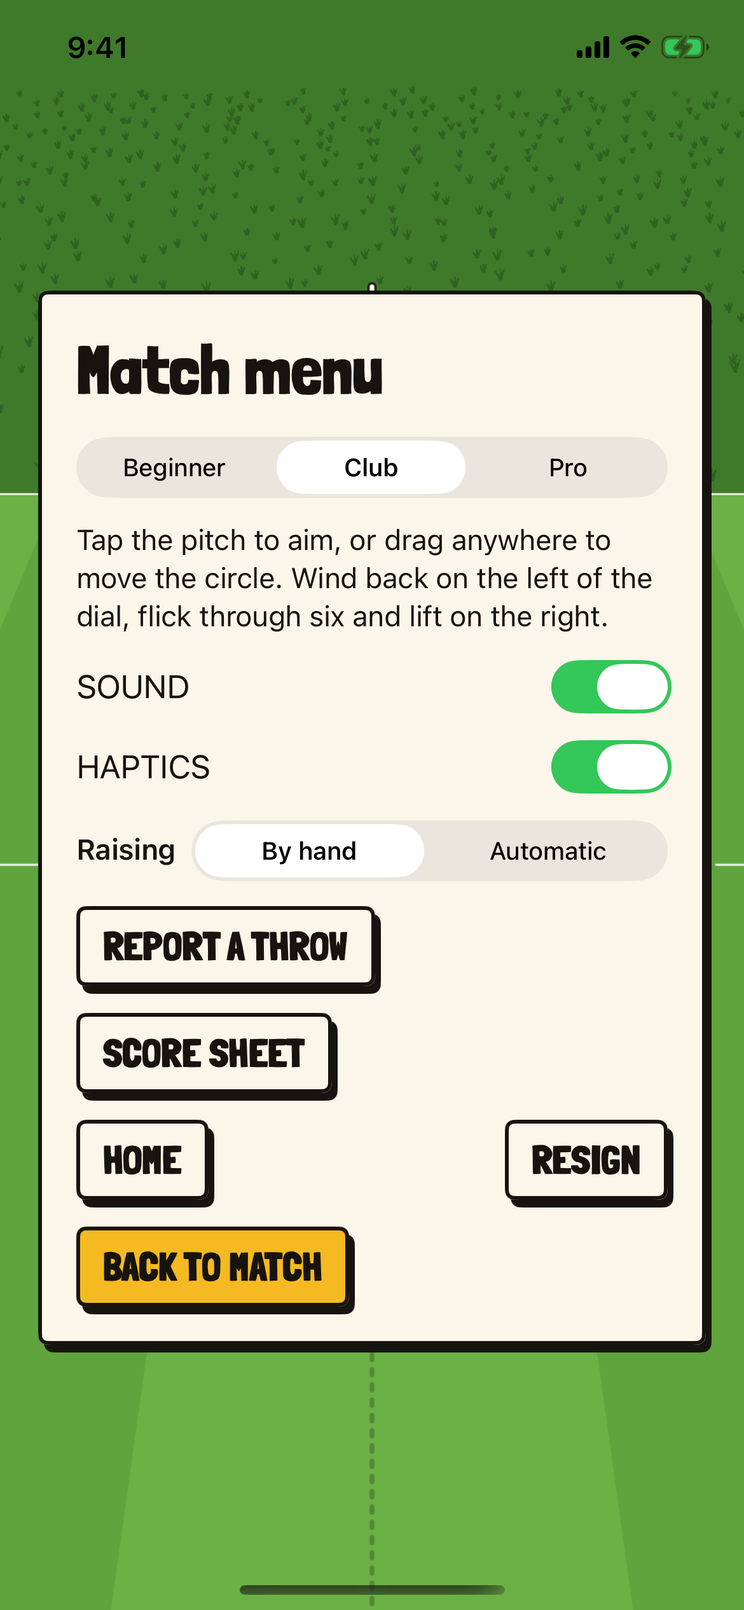
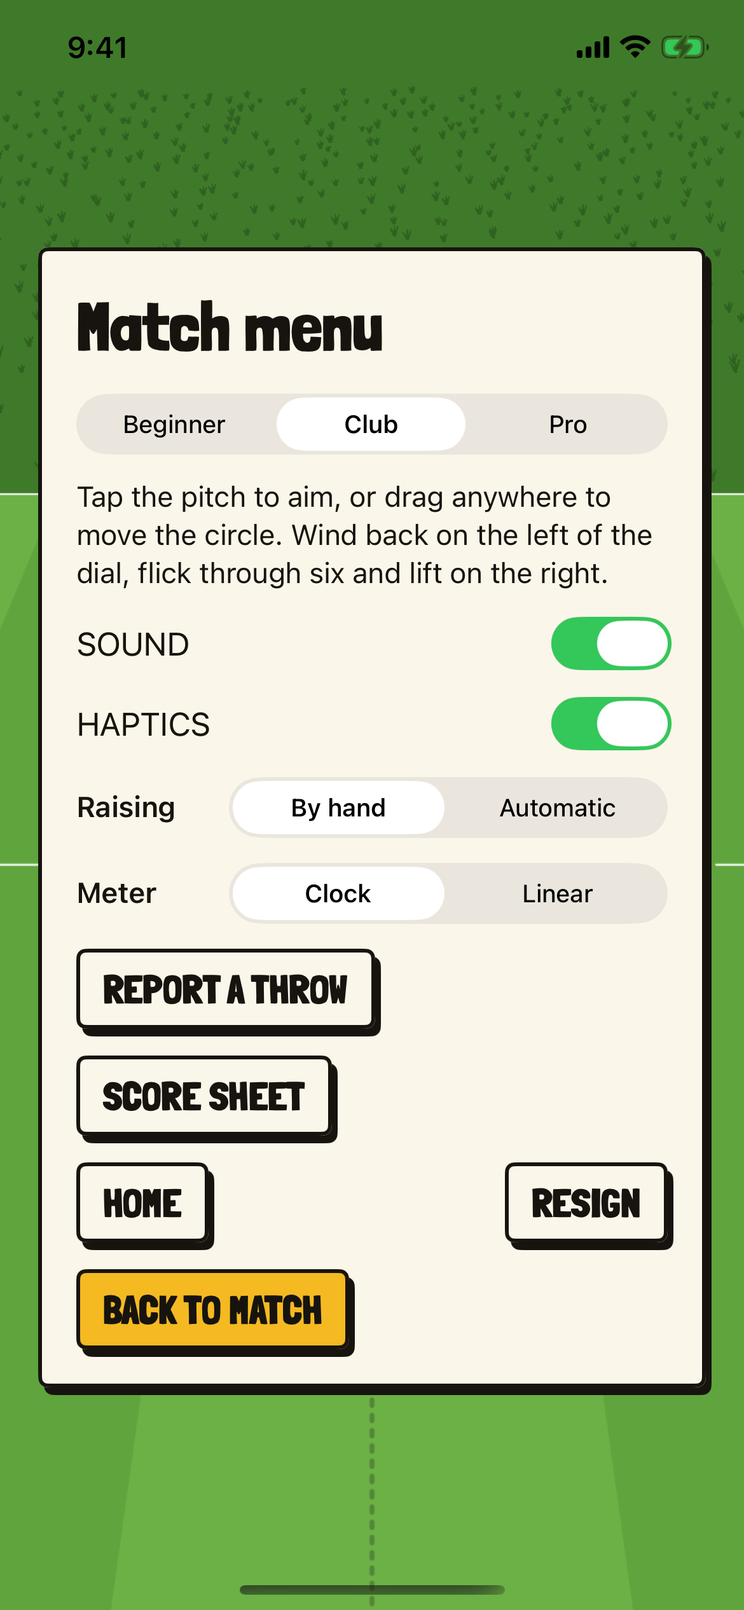
Fit the linear meter and the nudge beside the plan sliders
With the linear meter on the left, the plan's columns swap so the
short TILT/SPIN column sits beside the meter and the DRAW BACK tab
stays clear. In a match the clock's nudge fingertip presses the knob,
since the sliders cover the band beside the ring. The nudge waits
while the side view is open or a slider is held. The menu's Meter and
Side rows get labels like Raising. The solo review tool adds linear
and nudge match pictures for both sides.

Changed region(s): [[0.0308, 0.156, 0.9538, 0.8736], [0.6769, 0.6864, 0.9231, 0.78]]

diff --git a/ThrowingWood/MatchCards.swift b/ThrowingWood/MatchCards.swift
@@ -397,7 +397,7 @@ struct RaisingSetting: View {
   @Bindable var model: GameModel
   var body: some View {
     HStack {
-      Text("Raising").font(.subheadline.weight(.semibold))
+      Text("Raising").font(.subheadline.weight(.semibold)).frame(width: 72, alignment: .leading)
       Picker("Raising", selection: $model.raiseAutomatically) {
         Text("By hand").tag(false)
         Text("Automatic").tag(true)
@@ -407,30 +407,42 @@ struct RaisingSetting: View {
 }
 
 /// ARC over SIDE VIEW on the left of the dial, TILT or SPIN over WALK on the
-/// right, their feet level.
+/// right, their feet level. With the linear meter on the left the two swap, so
+/// the shorter TILT column sits beside the meter, under its prompt tab.
 struct PlanControls: View {
   let model: GameModel, pitch: PitchSession, revision: Int
+  @Environment(\.meterRoom) private var meterRoom
   var body: some View {
-    let enabled = pitch.canAim
+    let mirrored = meterRoom.width > 0 && meterRoom.edge == .leading
     HStack(alignment: .bottom) {
-      VStack(spacing: 12) {
-        ArcSlider(
-          release: pitch.release, loft: pitch.arcDegrees,
-          held: pitch.held == .arc ? pitch.heldFraction : nil, enabled: enabled,
-          slide: { f, phase in model.perform { pitch.slide(.arc, to: f, phase: phase) } },
-          step: { s in model.perform { try pitch.stepPlan(.arc, by: s) } })
-        tool("SIDE VIEW", label: "Side view", on: pitch.plan) { try pitch.togglePlan() }
-      }
+      if mirrored { side } else { arc }
       Spacer()
-      VStack(spacing: 12) {
-        SideSlider(
-          value: pitch.sideStep ?? 0, kubb: pitch.throwsKubb,
-          held: pitch.held == .side ? pitch.heldFraction : nil, enabled: enabled,
-          slide: { f, phase in model.perform { pitch.slide(.side, to: f, phase: phase) } },
-          step: { s in model.perform { try pitch.stepPlan(.side, by: s) } })
-        tool("WALK", label: "Walk by dragging on the pitch", on: pitch.walking) {
-          try pitch.toggleWalk()
-        }
+      if mirrored { arc } else { side }
+    }
+  }
+
+  private var arc: some View {
+    let enabled = pitch.canAim
+    return VStack(spacing: 12) {
+      ArcSlider(
+        release: pitch.release, loft: pitch.arcDegrees,
+        held: pitch.held == .arc ? pitch.heldFraction : nil, enabled: enabled,
+        slide: { f, phase in model.perform { pitch.slide(.arc, to: f, phase: phase) } },
+        step: { s in model.perform { try pitch.stepPlan(.arc, by: s) } })
+      tool("SIDE VIEW", label: "Side view", on: pitch.plan) { try pitch.togglePlan() }
+    }
+  }
+
+  private var side: some View {
+    let enabled = pitch.canAim
+    return VStack(spacing: 12) {
+      SideSlider(
+        value: pitch.sideStep ?? 0, kubb: pitch.throwsKubb,
+        held: pitch.held == .side ? pitch.heldFraction : nil, enabled: enabled,
+        slide: { f, phase in model.perform { pitch.slide(.side, to: f, phase: phase) } },
+        step: { s in model.perform { try pitch.stepPlan(.side, by: s) } })
+      tool("WALK", label: "Walk by dragging on the pitch", on: pitch.walking) {
+        try pitch.toggleWalk()
       }
     }
   }

diff --git a/ThrowingWood/BoardView.swift b/ThrowingWood/BoardView.swift
@@ -143,6 +143,8 @@ import UIKit
               for _ in 0..<90 { try pitch.tick(1.0 / 60) }
             }
             if mode == "computer" { for _ in 0..<32 { try pitch.tick(1.0 / 60) } }
+            // the nudge frozen a second in, the draw back, beside the plan's sliders
+            if mode == "nudge" { reviewNudge = 1.0 }
             if mode == "arc" || mode == "tilt" {
               // A finger held on the slider three quarters along: the side view eases in.
               pitch.slide(mode == "arc" ? .arc : .side, to: 0.75, phase: .down)
@@ -221,7 +223,7 @@ import UIKit
     (model.screen == .practice || model.screen == .match) && pitch.canAim && pitch.handoff == nil
   }
   private var nudgeEligible: Bool {
-    nudgeAimWanted && !pitch.plan && tracking == nil && pendingDial == nil && nudgeEnd == nil
+    nudgeAimWanted && !pitch.showsSide && tracking == nil && pendingDial == nil && nudgeEnd == nil
       && pitch.dial.phase == "idle"
   }
   /// Time passing for the nudge, on the wall clock (the display link sleeps).
@@ -229,6 +231,8 @@ import UIKit
     let now = CACurrentMediaTime()
     let dt = nudgeClock.map { now - $0 } ?? 0
     nudgeClock = now
+    // a held slider (SIDE VIEW) is input, and keeps the nudge off the meter
+    if pitch.held != nil { nudge.input() }
     let aim = nudgeAimWanted
     if aim && !nudgeAim { nudge.aimBegan() }
     nudgeAim = aim
@@ -264,7 +268,7 @@ import UIKit
           switch mode {
           case "home": model.screen == .home
           case "options": model.screen == .options
-          case "aim": model.screen == .match && pitch.canAim
+          case "aim", "nudge": model.screen == .match && pitch.canAim
           case "menu": model.screen == .menu
           case "verdict": pitch.result != nil
           case "plan": pitch.plan
@@ -340,7 +344,7 @@ import UIKit
       if let ghost {
         hud.nudge(
           ghost, swing: NudgeSwing(pitch.dial), on: meter, safeLeft: safeAreaInsets.left,
-          safeRight: safeAreaInsets.right)
+          safeRight: safeAreaInsets.right, besideFree: model.screen == .practice)
       }
     }
   }

diff --git a/ThrowingWood/NudgeHUD.swift b/ThrowingWood/NudgeHUD.swift
@@ -15,17 +15,20 @@ enum NudgePaint {
   static let shadow: CGFloat = 0.22  // its hard shadow when down, of its radius
   static let zoneGap: CGFloat = 12  // pt between the prompt tab and the fingertip's path
   static let beside: CGFloat = 1.6  // the clock's fingertip: radii out, beside the ring
+  static let onKnob: CGFloat = 0.82  // the clock's fingertip on the knob, where the sliders cover the band
 }
 
 extension PracticeHUD {
   /// Where the fingertip is for `arm` on this meter.
+  /// `besideFree`: nothing covers the band beside the clock's ring. In a match
+  /// the plan's sliders sit there, so the fingertip presses the knob instead.
   static func nudgeFinger(
     _ meter: MeterLayout, arm: Double, swing: NudgeSwing, size: CGSize, safeLeft: CGFloat,
-    safeRight: CGFloat
+    safeRight: CGFloat, besideFree: Bool = true
   ) -> CGPoint {
     switch meter {
     case .clock(let c):
-      return c.point(arm: arm, radius: c.radius * NudgePaint.beside)
+      return c.point(arm: arm, radius: c.radius * (besideFree ? NudgePaint.beside : NudgePaint.onKnob))
     case .linear(let g):
       let z = nudgePath(g, swing: swing, size: size, safeLeft: safeLeft, safeRight: safeRight)
       return CGPoint(x: z.x, y: z.y0 + (g.y(arm: clampArm(arm)) - g.yHome))
@@ -61,7 +64,8 @@ extension PracticeHUD {
   }
 
   func nudge(
-    _ f: NudgeFrame, swing: NudgeSwing, on meter: MeterLayout, safeLeft: CGFloat, safeRight: CGFloat
+    _ f: NudgeFrame, swing: NudgeSwing, on meter: MeterLayout, safeLeft: CGFloat, safeRight: CGFloat,
+    besideFree: Bool = true
   ) {
     guard f.alpha > 0 else { return }
     context.saveGState()
@@ -72,7 +76,8 @@ extension PracticeHUD {
     context.setLineCap(.round)
     context.setLineJoin(.round)
     let finger = Self.nudgeFinger(
-      meter, arm: f.arm, swing: swing, size: size, safeLeft: safeLeft, safeRight: safeRight)
+      meter, arm: f.arm, swing: swing, size: size, safeLeft: safeLeft, safeRight: safeRight,
+      besideFree: besideFree)
     switch meter {
     case .clock(let c):
       let r = c.radius

diff --git a/ThrowingWood/MeterSettings.swift b/ThrowingWood/MeterSettings.swift
@@ -32,17 +32,24 @@ struct MeterSettings: View {
   var card = false
   var body: some View {
     if card {
+      // labelled as the menu's Raising is, the labels one width so the pickers line up
       VStack(alignment: .leading, spacing: 6) {
-        Picker("Meter", selection: $meter.kind) {
-          Text("Clock").tag(MeterKind.clock)
-          Text("Linear").tag(MeterKind.linear)
-        }.pickerStyle(.segmented).accessibilityLabel("Meter")
+        HStack {
+          Text("Meter").font(.subheadline.weight(.semibold)).frame(width: 72, alignment: .leading)
+          Picker("Meter", selection: $meter.kind) {
+            Text("Clock").tag(MeterKind.clock)
+            Text("Linear").tag(MeterKind.linear)
+          }.pickerStyle(.segmented).accessibilityLabel("Meter")
+        }
         if meter.kind == .linear {
           // Jamie, 2026-11-19: "Left and right handed folks may want it on one side or the other"
-          Picker("Side", selection: $meter.side) {
-            Text("Left").tag(MeterSide.left)
-            Text("Right").tag(MeterSide.right)
-          }.pickerStyle(.segmented).accessibilityLabel("Side")
+          HStack {
+            Text("Side").font(.subheadline.weight(.semibold)).frame(width: 72, alignment: .leading)
+            Picker("Side", selection: $meter.side) {
+              Text("Left").tag(MeterSide.left)
+              Text("Right").tag(MeterSide.right)
+            }.pickerStyle(.segmented).accessibilityLabel("Side")
+          }
         }
       }
     } else {

diff --git a/tools/solo-snapshots.py b/tools/solo-snapshots.py
@@ -15,6 +15,21 @@ MODES = {
     "raiseauto": "raise-many", "raiserest": "raise-many", "punish": "punish", "computer": "computer",
     "winner": "over", "sheet": "over",
 }
+# The match with the linear meter (and the nudge) beside the plan's sliders:
+# name: (MATCH_REVIEW mode, fixture, meter, side). The meter is a launch
+# argument, never saved; every other shot runs with the clock.
+METER_SHOTS = {
+    "linear-right-aim": ("aim", "aim", "linear", "right"),
+    "linear-right-arc": ("arc", "aim", "linear", "right"),
+    "linear-right-tilt": ("tilt", "aim", "linear", "right"),
+    "linear-left-aim": ("aim", "aim", "linear", "left"),
+    "linear-left-arc": ("arc", "aim", "linear", "left"),
+    "linear-left-tilt": ("tilt", "aim", "linear", "left"),
+    "linear-right-nudge": ("nudge", "aim", "linear", "right"),
+    "linear-left-nudge": ("nudge", "aim", "linear", "left"),
+    "clock-nudge": ("nudge", "aim", "clock", "right"),
+}
+SHOTS = {**{m: (m, f, "clock", "right") for m, f in MODES.items()}, **METER_SHOTS}
 APP = "com.throwingwood.app"
 
 
@@ -38,13 +53,14 @@ def capture(phone, args):
         tmp = Path(sim("get_app_container", udid, APP, "data", capture_output=True,
                        text=True).stdout.strip()) / "tmp"
         prefix = phone.lower().replace(" ", "-")
-        for mode, fixture in MODES.items():
+        for shot, (mode, fixture, meter, side) in SHOTS.items():
             ready = tmp / "review-ready"
             ready.unlink(missing_ok=True)
             if fixture:
                 src = ROOT / "ThrowingWoodKit/Tests/KubbRendererTests/Fixtures/solo" / (fixture + ".json")
                 shutil.copyfile(src, tmp / "review-solo.json")
             sim("launch", "--terminate-running-process", udid, APP,
+                "-pitch.meter", meter, "-pitch.meterSide", side,
                 env={**os.environ, "SIMCTL_CHILD_MATCH_REVIEW": mode}, stdout=subprocess.DEVNULL)
             deadline = time.monotonic() + 30
             while not ready.exists() or ready.read_text() != mode:
@@ -52,9 +68,9 @@ def capture(phone, args):
                     raise RuntimeError(f"{phone} did not reach {mode}")
                 time.sleep(0.1)
             time.sleep(0.7)  # allow the launch transition and SwiftUI transaction to finish
-            file = args.out / f"{prefix}-{mode}.png"
+            file = args.out / f"{prefix}-{shot}.png"
             sim("io", udid, "screenshot", str(file), capture_output=True)
-            print(f"{phone} {mode}", flush=True)
+            print(f"{phone} {shot}", flush=True)
     finally:
         sim("status_bar", udid, "clear")
         subprocess.run(["xcrun", "simctl", "terminate", udid, APP], capture_output=True)
@@ -75,4 +91,4 @@ if __name__ == "__main__":
     if not args.capture_only:
         subprocess.run(["swift", str(ROOT / "tools/check-snapshots.swift"), str(ROOT / "docs/review"),
                         str(args.out), *[f"{p.lower().replace(' ', '-')}-{m}.png"
-                                       for p in phones for m in MODES]], check=True)
+                                       for p in phones for m in SHOTS]], check=True)

diff --git a/docs/RENDER.md b/docs/RENDER.md
@@ -31,6 +31,15 @@ Each image is a real iOS 26.2 simulator capture of the app with a synthetic matc
 | Side view | [16e](review/iphone-16e-plan.png) | [17 Pro Max](review/iphone-17-pro-max-plan.png) |
 | ARC held | [16e](review/iphone-16e-arc.png) | [17 Pro Max](review/iphone-17-pro-max-arc.png) |
 | TILT held | [16e](review/iphone-16e-tilt.png) | [17 Pro Max](review/iphone-17-pro-max-tilt.png) |
+| Linear, right, aim | [16e](review/iphone-16e-linear-right-aim.png) | [17 Pro Max](review/iphone-17-pro-max-linear-right-aim.png) |
+| Linear, right, ARC held | [16e](review/iphone-16e-linear-right-arc.png) | [17 Pro Max](review/iphone-17-pro-max-linear-right-arc.png) |
+| Linear, right, TILT held | [16e](review/iphone-16e-linear-right-tilt.png) | [17 Pro Max](review/iphone-17-pro-max-linear-right-tilt.png) |
+| Linear, left, aim | [16e](review/iphone-16e-linear-left-aim.png) | [17 Pro Max](review/iphone-17-pro-max-linear-left-aim.png) |
+| Linear, left, ARC held | [16e](review/iphone-16e-linear-left-arc.png) | [17 Pro Max](review/iphone-17-pro-max-linear-left-arc.png) |
+| Linear, left, TILT held | [16e](review/iphone-16e-linear-left-tilt.png) | [17 Pro Max](review/iphone-17-pro-max-linear-left-tilt.png) |
+| Nudge, clock, in a match | [16e](review/iphone-16e-clock-nudge.png) | [17 Pro Max](review/iphone-17-pro-max-clock-nudge.png) |
+| Nudge, linear right, in a match | [16e](review/iphone-16e-linear-right-nudge.png) | [17 Pro Max](review/iphone-17-pro-max-linear-right-nudge.png) |
+| Nudge, linear left, in a match | [16e](review/iphone-16e-linear-left-nudge.png) | [17 Pro Max](review/iphone-17-pro-max-linear-left-nudge.png) |
 | Flight | [16e](review/iphone-16e-flight.png) | [17 Pro Max](review/iphone-17-pro-max-flight.png) |
 | Verdict | [16e](review/iphone-16e-verdict.png) | [17 Pro Max](review/iphone-17-pro-max-verdict.png) |
 | Raise | [16e](review/iphone-16e-raise.png) | [17 Pro Max](review/iphone-17-pro-max-raise.png) |
@@ -54,7 +63,7 @@ Each image is a real iOS 26.2 simulator capture of the app with a synthetic matc
 The throw's meter is the player's choice, kept on the device: MENU (practice) or the match menus, Meter, Clock or Linear (`pitch.meter`, clock by default), and Side, Left or Right (`pitch.meterSide`, right by default) for the linear meter. `KubbRenderer/ThrowMeter.swift` holds the geometry and which touches each meter claims, and both feed the same `PointerDial`: the clock its finger's angle about the centre, the linear meter `meterPoint(arm:)` for the knob's height. The engine and its `pointer` tune do not know which meter is on the screen.
 
 - **The clock** keeps its place and size: radius `min(0.22 W, 0.12 H, 114)` pt, centre 42 pt above the bottom safe area. Its colours are the app's own (system red and grey), not the web's palette.
-- **The linear meter** (`LinearMeterHUD.swift`) is a port of the web's `src/render/linear.js`, its tune number for number: two columns in one ink frame with a hard shadow, the lane (targets) toward the screen's centre and the channel (the wood knob) toward the edge, the prompt a tab at the knob's home. The knob's home is the clock's 6, the middle of the track; the backswing runs down, toward the player, and the forward swing up, on one scale. The box is 0.2 of the width (64 to 96 pt) and 0.47 of the height, the web's, about 330 pt of track on a tall phone, and stands 7 pt off the edge and the bottom safe area, under the minimap. A screen that cannot give it 320 pt of track (a phone on its side, a short phone) shows the clock. Its words: DRAW BACK, FLING!, BACK TO MIDDLE. The plan's buttons are padded clear of it through the `\.meterRoom` environment value (`MeterRoom`: the edge and the width the meter takes).
+- **The linear meter** (`LinearMeterHUD.swift`) is a port of the web's `src/render/linear.js`, its tune number for number: two columns in one ink frame with a hard shadow, the lane (targets) toward the screen's centre and the channel (the wood knob) toward the edge, the prompt a tab at the knob's home. The knob's home is the clock's 6, the middle of the track; the backswing runs down, toward the player, and the forward swing up, on one scale. The box is 0.2 of the width (64 to 96 pt) and 0.47 of the height, the web's, about 330 pt of track on a tall phone, and stands 7 pt off the edge and the bottom safe area, under the minimap. A screen that cannot give it 320 pt of track (a phone on its side, a short phone) shows the clock. Its words: DRAW BACK, FLING!, BACK TO MIDDLE. The plan's sliders and buttons are padded clear of it through the `\.meterRoom` environment value (`MeterRoom`: the edge and the width the meter takes). With the meter on the left the plan's two columns swap, TILT or SPIN over WALK beside the meter and ARC over SIDE VIEW at the far edge, so the shorter column sits under the prompt tab and the tall ARC never covers it. The sliders are SwiftUI views over the board, so a press on one never reaches `BoardView` (never a throw), and a press on the meter never reaches a slider.
 - **Red** starts at `max(overDeg, powerHi)` on both meters: the engine's overpower cost counts from the power target's top (core/throwplan), so a long throw's target past 11 o'clock is never drawn as overpowered.
 - **The last throw** (the engine's `lastBack` and `lastStop`) is a faded ghost of the knob where it was, 60% of its size at 45% opacity, so it reads as "where your last throw went" and never as a target. The web draws the same.
 
@@ -64,15 +73,15 @@ In `BoardView.touchesBegan`, in this order. Anything a step does not claim falls
 
 1. Raise and punishment phases, as before.
 2. `MeterLayout.first`: the clock's ring, within 1.25 radii of its centre (the throw at once, as always); the linear knob, 46 pt up or down from home, across the body and 6 pt either side of it (the throw at once, grabbed relatively: the press point is home); the rest of the linear body and its shadow (swallowed, never a throw).
-3. Walking, the target circle (56 pt), the thrower (44 pt), as before.
+3. Walking, the thrower (44 pt), as before.
 4. `MeterLayout.after`: beside the clock's ring, 1.25 to 2.1 radii; the linear meter's throw zone, y ≥ 0.6 of the height. Beside the ring where a tap could not aim (`tapCouldAim`, the tap rule `target(tap: true)` uses), the press is the throw at once. Otherwise the press waits: one that moves more than 10 pt (`MeterLayout.tapSlop`) is the throw, a stroke from the knob's home for the zone, and one that does not is a tap on the pitch.
-5. A tap on the pitch, as before.
+5. The aim (`AimDrag`): a tap puts the circle there, a drag anywhere else moves it from where it is. A tap that waited in step 4 aims the same way (`tapAim`).
 
 A stroke from the zone or beside the ring feeds the engine the press on one frame and the finger on the next, so a quick first move still arms the swing. A finger beside the ring is drawn as a spoke from the knob to it.
 
 ### The nudge
 
-When a player is stuck on their own throw, a ghost of the knob makes one good throw on the meter with a ghost fingertip where the finger goes: a slow draw back (0.9 s), a beat, a fast flick (0.25 s), then a second's rest, until the next press. `ThrowNudge.swift` (pure, the web's `src/game/nudge.js` numbers) says when and where on the timeline; `NudgeHUD.swift` draws it. It counts only eligible time (the player's own aim in practice or a match, no finger down, the plan closed, the dial idle) on the wall clock, and the display link sleeps until it is due. A device with fewer than 3 throws (`pitch.throwsMade`, capped at 9) is nudged after 8 s in the aim without a press on the meter; any device after two presses on the meter in a row that made no throw (0.8 s after the last); a learned one after 30 s with no input. A tap in the throw zone or beside the ring keeps it away 1.5 s. The fingertip is beside the ring (1.6 radii) on the clock and in the throw zone on the linear meter's inner side. While the engine says WIND BACK the plate follows the ghost. Reduce Motion shows a still picture at the back with the strokes' arrows. Drawing only: the ghost is never fed to the engine.
+When a player is stuck on their own throw, a ghost of the knob makes one good throw on the meter with a ghost fingertip where the finger goes: a slow draw back (0.9 s), a beat, a fast flick (0.25 s), then a second's rest, until the next press. `ThrowNudge.swift` (pure, the web's `src/game/nudge.js` numbers) says when and where on the timeline; `NudgeHUD.swift` draws it. It counts only eligible time (the player's own aim in practice or a match, no finger down, the side view closed and no slider held, the dial idle; a held slider counts as input) on the wall clock, and the display link sleeps until it is due. A device with fewer than 3 throws (`pitch.throwsMade`, capped at 9) is nudged after 8 s in the aim without a press on the meter; any device after two presses on the meter in a row that made no throw (0.8 s after the last); a learned one after 30 s with no input. A tap in the throw zone or beside the ring keeps it away 1.5 s. The fingertip is beside the ring (1.6 radii) on the clock in practice; in a match the plan's sliders sit beside the ring, so it presses the knob instead. On the linear meter it is in the throw zone on the meter's inner side, between the two slider columns. While the engine says WIND BACK the plate follows the ghost. Reduce Motion shows a still picture at the back with the strokes' arrows. Drawing only: the ghost is never fed to the engine.
 
 `python3 tools/meter-snapshots.py <simulator-app> --device <name or udid>` captures every meter, side, mark and nudge frame under `build/meter-shots/` (`PITCH_REVIEW` modes `wind`, `beside`, `marks` and `nudge`; `NUDGE_AT` freezes the nudge at a time, `NUDGE_STILL` shows the still picture).
 

diff --git a/docs/MATCH.md b/docs/MATCH.md
@@ -1,13 +1,13 @@
 # The offline solo match
 
-The home screen opens practice or a match against the computer. PLAY THE COMPUTER resumes an unfinished solo game or opens its options. START creates a new match. REMATCH returns to the options. The match menu pauses the clock and provides level, score sheet, home and resignation.
+The home screen opens practice or a match against the computer. PLAY THE COMPUTER resumes an unfinished solo game or opens its options. START creates a new match. REMATCH returns to the options. The match menu pauses the clock and provides level, Raising, Meter (Clock or Linear, and Side for the linear one), score sheet, home and resignation.
 
 ## Session contract
 
 - `PitchSession` owns one main-actor Lua state. The app gets the six selectors from `room.constants`. It uses LEVELS for level and MATCH_OPTIONS and OPTION_DEFAULTS for the other five. Club is the web solo default. The host supplies the local Gregorian start date, a random 31-bit seed and a name for each side. Side A plays first and side B is the computer.
 - On `new` and `restore`, set control to sides A and CPU true. Adopt the session's `view`. A throw need supplies the thrower, projectile, position in the turn and standing counts. A human handoff pauses until THROW. Lua handles the computer's own raises and handovers. A CPU throw advances through ordinary `frame({dt})` calls including its think and windup.
 - While aiming, the pointer dial supplies arm angles. A tap places the target where the finger lands, or on a standing kubb or king whose drawn body is under or within 22 pt of the tap. A drag anywhere on the pitch moves the circle from where it is by the finger's travel, 0.01 m a point along the camera's right and forward laid on the ground, with `setTarget` and no snap; lifting sends the same point once more with the engine's snap. Drag the stance mark directly or enable WALK and drag to walk. After an aim command, read the session's dial so a stationary player sees the updated release ranges before winding back. The session constrains all movement. The minimap tracks the thrower's frame on either side.
-- The plan. ARC is a vertical slider over the engine's release range (15 to 165 degrees, `setArc`); a press anywhere on it jumps the knob there and keeps dragging, and the value is sent at most once a display frame. Its header shows the loft (`ARC 46°`), its marks the clock's hours with a long one at the level throw (90). TILT for a baton (5 degrees a step to 20 either way) or SPIN for a kubb (1 a step to 3) is a horizontal slider: the knob follows the finger and settles on the nearest step, sent as the step difference through `stepSide`; the header reads `TILT 10R`, `SPIN 2L` or `TILT 0`. VoiceOver adjusts either one step at a time (`stepArc`, `stepSide`). SIDE VIEW (once PLAN VIEW) toggles the engine's side camera, and the same camera shows while either slider is held and 0.5 s after. While a slider is held, a one-line plaque under the turn rail says what it does, and TILT draws the baton leaning by the tilt over the circle as the thrower sees it. Nothing else reaches the engine.
+- The plan. ARC is a vertical slider over the engine's release range (15 to 165 degrees, `setArc`); a press anywhere on it jumps the knob there and keeps dragging, and the value is sent at most once a display frame. Its header shows the loft (`ARC 46°`), its marks the clock's hours with a long one at the level throw (90). TILT for a baton (5 degrees a step to 20 either way) or SPIN for a kubb (1 a step to 3) is a horizontal slider: the knob follows the finger and settles on the nearest step, sent as the step difference through `stepSide`; the header reads `TILT 10R`, `SPIN 2L` or `TILT 0`. VoiceOver adjusts either one step at a time (`stepArc`, `stepSide`). SIDE VIEW (once PLAN VIEW) toggles the engine's side camera, and the same camera shows while either slider is held and 0.5 s after. The plan's row keeps clear of the linear meter (`\.meterRoom`, docs/RENDER.md "The meter"); with the meter on the left the two columns swap so TILT sits beside it. While a slider is held, a one-line plaque under the turn rail says what it does, and TILT draws the baton leaning by the tilt over the circle as the thrower sees it. Nothing else reaches the engine.
 - A release has already advanced the match. Save the raw snapshot, play the recording and keep the releasing side's HUD until rest. The controller gets camera and speed from `showAt` and interpolates the recording's poses. SKIP enters the settled view. Rulings, bursts and verdict words come from the engine.
 - For `need.kind == raise`, draw the lying kubb and the session's numbered end footprints. Match the selected end's `which` to the one-based index in `choices`. An automatic raise omits the index. AUTO raises this kubb by the engine's choice; AUTO ALL, shown while more than one kubb is still to raise, raises the rest of this turn's 0.7 s apart. The menu's Raising (By hand or Automatic, kept on the device) does the same for every raise of this device's side; the card says so and offers BY HAND. Automatic raising never acts for the other side or under a card, and stops (leaving the kubb to the player) if the engine refuses. For punishment the touch ray meets the ground, the cursor stays within the supplied bounds, and `checkPunish` decides whether PLACE IT is available. Both use `apply` and load the resulting view.
 - An over need shows the winner even if a resignation retained a previous handoff in the session. The end card takes its winner, reason and statistics from `need`. The sheet displays `sheet().shown` by default. Show positions, COPY and SAVE use the complete Planet Kubb Notation text returned by the session. SAVE uses the session's filename and the iOS file picker.
